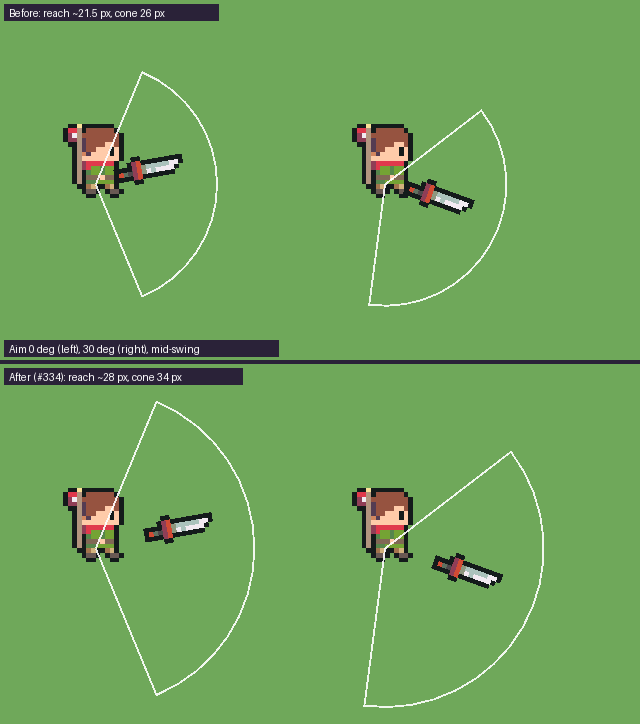
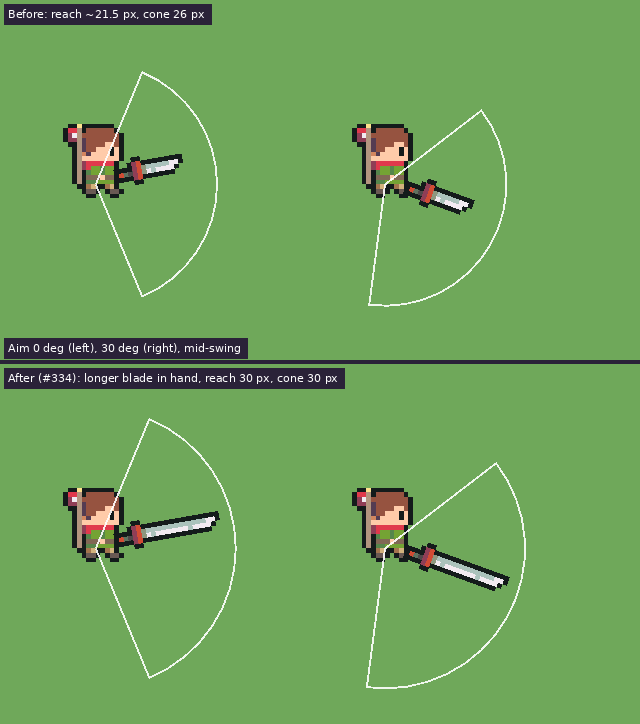
Sword reach and aim cone both 30 px, with a longer blade in hand (#334)
Gameplay change. The sword node goes back into the hero's hand (the
6.5 px outward offset is undone) and the blade is drawn 8 px longer
(Sword2/Sprite.png, 6x15 to 6x23, blade rows only). The hitbox runs from
the guard to the blade's tip, so the longest swing (Up) reaches 30 px
from the cone apex; the other directions reach 27.4-28.8 px because the
swing animations differ. The aim cone is drawn at the same length:
AimConeStyle.SWORD_REACH is the one constant for both.

test_sword_reach now checks the cone length equals the reach, the
30 px longest reach, the 27 px floor and that no swing passes the cone
at eight aim angles. The hero scene no longer logs a missing
player_joystick when it runs outside the game scene.

Closes #334
Part of #231

diff --git a/.cursor/skills/verify-flagoria/features/combat-and-aiming.md b/.cursor/skills/verify-flagoria/features/combat-and-aiming.md
@@ -9,8 +9,8 @@ A player swings the sword with space, a tap on the on-screen attack button, or a
 - `sword-dead` a dead player's sword and body are off.
 - `aim-mouse` holding the left mouse button on the map in combat mode aims at the cursor (`Scripts/attack_aim.gd`, node `AttackAim` under the hero).
 - `aim-touch` a finger that lands on the attack button (group `attack_button`, `CanvasLayer1/TouchScreenButton`) aims once it moves more than `TOUCH_DEAD_ZONE` (8 screen px) from the button's `aim_center()`.
-- `aim-cone` a translucent cone from the hero shows the swing; its look is `AimConeStyle` (`Scripts/aim_cone_style.gd`). Its length (`AimConeStyle.range`) is 34 px: the blade's reach plus about half a mob's hurt box.
-- `sword-reach` the sword's hitbox reaches about 28 px from `AttackAim.ORIGIN` at its longest (Up), and at least 25 px in every direction (#334; 21.5 px before). The `sword` node sits 6.5 px further out along the blade in `Player/character_body_2d.tscn`, so the drawn blade and the hitbox move together; the four swing animations are unchanged. Mid-swing the whole hitbox is inside the cone at any aim angle. Before and after: `artifacts/sword_reach_334.png`.
+- `aim-cone` a translucent cone from the hero shows the swing; its look is `AimConeStyle` (`Scripts/aim_cone_style.gd`). Its length (`AimConeStyle.range`) is `AimConeStyle.SWORD_REACH`, 30 px: the arc is the far edge of the sword's hitbox on its longest swing.
+- `sword-reach` the sword's hitbox reaches 30 px (`AimConeStyle.SWORD_REACH`) from `AttackAim.ORIGIN` at its longest (Up), and at least 27 px in every direction (Down ~27.4, Right ~27.9, Left ~28.8; #334, 21.5 px before). The `sword` node stays in the hero's hand; the blade is drawn 8 px longer (`art/items/Sword2/Sprite.png`, 6x23) and the hitbox in `Player/sword.tscn` runs from the guard to the blade's tip, so the drawn blade and the hitbox match; the four swing animations are unchanged. The hitbox never passes the cone, and mid-swing the whole hitbox is inside it at any aim angle. The sword is an Area2D, so it hits a mob's hurt box through walls within that reach. Before and after: `artifacts/sword_reach_334.png`.
 - `aim-angle` the cone and the swing follow the exact aim angle (`aim_angle()`); the hero's sprite faces the nearest of the four directions (`aim_direction()`, `AttackAim.DIRECTIONS`: Up, Down, Left, Right), and the swing plays that direction's animation turned by `swing_turn` about `AttackAim.ORIGIN` (`_turn_swing` in `Scripts/player.gd`), hitbox included.
 - `aim-cancel` right-click, or opening the in-game menu (`CanvasLayer1/InGameMenu`, Esc or its HUD button), cancels a mouse aim, and no aim starts while that menu is open; dragging back into the dead zone cancels a touch aim (lifting there does not swing; dragging out again aims again); a second touch that lands off the move stick (`CanvasLayer1/player_joystick`) cancels a touch aim and lets that finger go (its drags and lift do not swing), and opening the in-game menu cancels it too.
 - `aim-release` releasing the mouse button or lifting the finger swings at the aimed angle, sent to every peer as a direction and an angle through the `attack_animation` RPC. Every peer, the server included, checks the angle: one more than 45 degrees (`MAX_TURN`) from its direction, or not finite, or an unknown direction, swings the way the hero faces; no angle (space, a tap) is a plain four-way swing.
@@ -26,7 +26,7 @@ Preconditions: `doctor.sh` exits `0`. Time cost: the eight tests below are under
 
 - **Run (headless).** `godot --headless --path . --script res://tests/run_tests.gd -- --only=sword_only_hits_mid_swing,attack_aim_mouse,attack_aim_touch,attack_aim_touch_guards,attack_angle_two_players,sword_reach,sword_reach_mob,mob_sword`, or the full `tools/verify.sh` and read `artifacts/verify.log`.
 - **Drive (live).** `start_game()`, then `tap("attack")` for a plain swing. For the aimed path, read the node in group `attack_button` at run time, send an `InputEventScreenTouch` (pressed) at its `aim_center()`, `InputEventScreenDrag` events out past `TOUCH_DEAD_ZONE` (for example 30 px up), then the release, with `Input.parse_input_event()` as `tap_cell()` does.
-- **Proof.** End state: after `tap("attack")` the hero's `isAttacking` is true and `lastAnimDirection` is unchanged; during the drag `AttackAim.aiming` is true, `aim_angle()` is the drag's angle and `aim_direction()` the nearest four-way direction; after the release the hero swings with `lastAnimDirection` equal to that direction and `swing_turn` equal to the angle less that direction's. Headless: each header `-- test_sword_only_hits_mid_swing`, `-- test_attack_aim_mouse`, `-- test_attack_aim_touch`, `-- test_attack_aim_touch_guards`, `-- test_attack_angle_two_players`, `-- test_sword_reach`, `-- test_sword_reach_mob`, `-- test_mob_sword` appears with no `FAIL` after it, and the run ends with `All tests passed.` and `Verification passed.`. The mob hit in the aimed direction is proven in two steps: `test_attack_aim_mouse` checks the cone covers the sword's hitbox mid-swing in every direction, `test_attack_aim_mouse` and `test_attack_aim_touch` check the hitbox turns to off-axis angles (30, -60, 160, 115 degrees), `test_attack_angle_two_players` checks the server's copy swings the client's angle and rejects a bad one, `test_mob_sword` checks that hitbox hurts a mob once per swing, `test_sword_reach` checks the reach (25-28 px, never past the cone) and that the whole hitbox is inside the cone mid-swing at six aim angles, and `test_sword_reach_mob` checks a mob whose hurt box starts 24 px out along an off-axis aim is hit while one 30 px out is not.
+- **Proof.** End state: after `tap("attack")` the hero's `isAttacking` is true and `lastAnimDirection` is unchanged; during the drag `AttackAim.aiming` is true, `aim_angle()` is the drag's angle and `aim_direction()` the nearest four-way direction; after the release the hero swings with `lastAnimDirection` equal to that direction and `swing_turn` equal to the angle less that direction's. Headless: each header `-- test_sword_only_hits_mid_swing`, `-- test_attack_aim_mouse`, `-- test_attack_aim_touch`, `-- test_attack_aim_touch_guards`, `-- test_attack_angle_two_players`, `-- test_sword_reach`, `-- test_sword_reach_mob`, `-- test_mob_sword` appears with no `FAIL` after it, and the run ends with `All tests passed.` and `Verification passed.`. The mob hit in the aimed direction is proven in two steps: `test_attack_aim_mouse` checks the cone covers the sword's hitbox mid-swing in every direction, `test_attack_aim_mouse` and `test_attack_aim_touch` check the hitbox turns to off-axis angles (30, -60, 160, 115 degrees), `test_attack_angle_two_players` checks the server's copy swings the client's angle and rejects a bad one, `test_mob_sword` checks that hitbox hurts a mob once per swing, `test_sword_reach` checks the cone's length equals the reach, the reach (27-30 px by direction, 30 px at its longest, never past the cone) and that the whole hitbox is inside the cone mid-swing at eight aim angles, and `test_sword_reach_mob` checks a mob whose hurt box starts 24 px out along an off-axis aim is hit while one 30 px out is not.
 
 ## Gotchas
 
